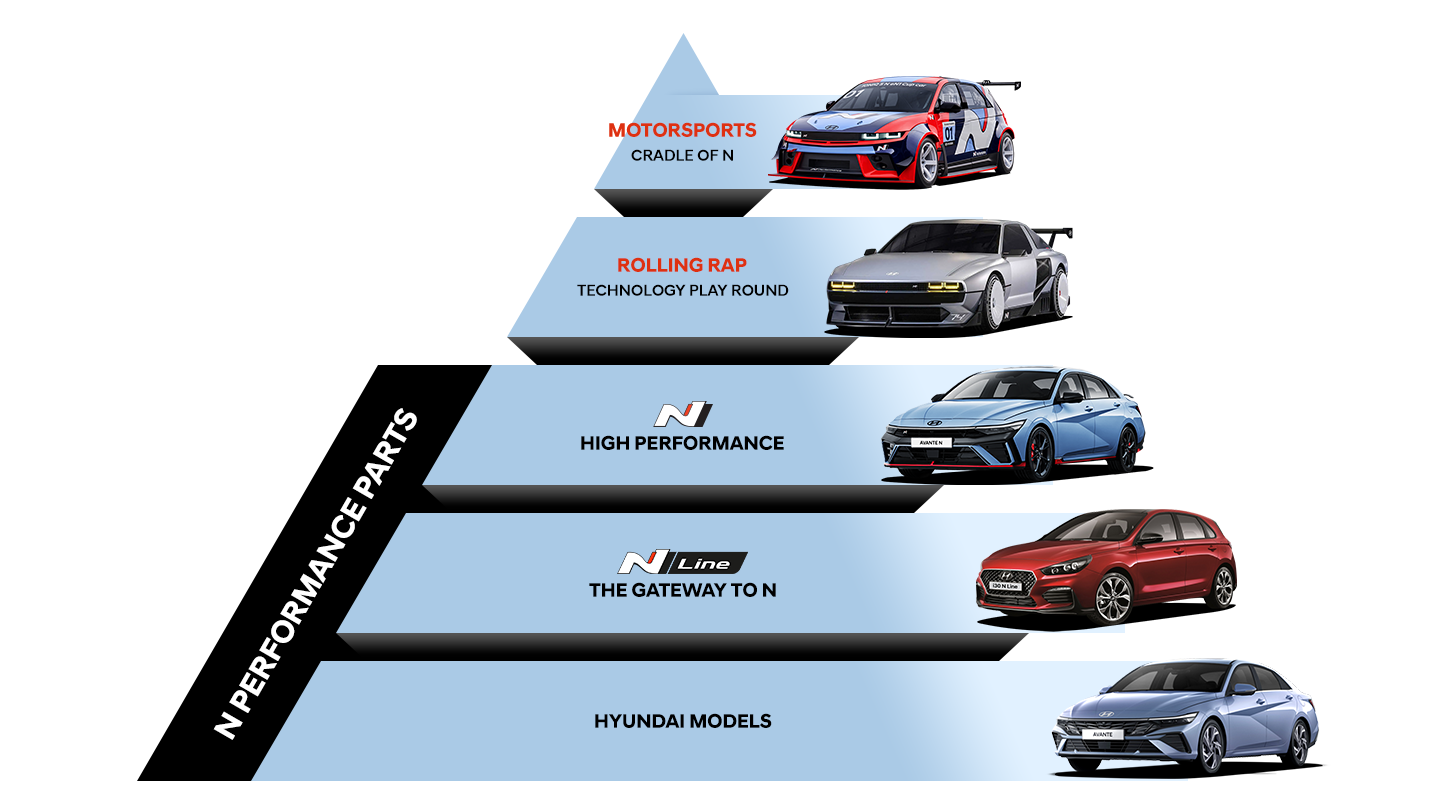
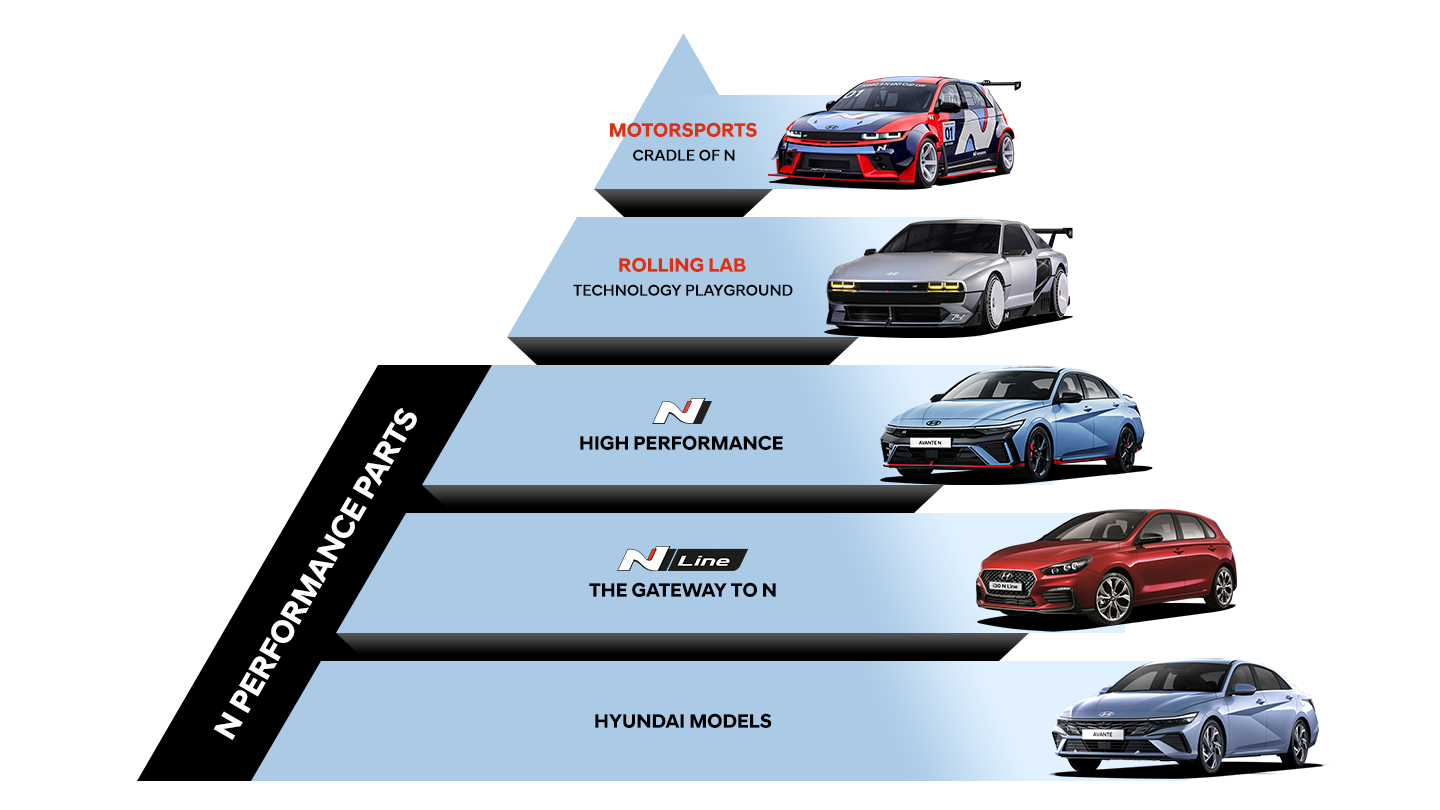
- JIRA 수정 사항 반영 완료
1. 지라 - 574
 - 상단에 외장/내장/요약 문구 수정 요청 제외하고 이미지좌측상단 노출되는 텍스트 삭제
2. 지라 - 575
 - 컨피규레이터 해상도 수정 필요
3. 지라 - 580
4. 지라 - 581

diff --git a/inc/js/pub-ui.js b/inc/js/pub-ui.js
@@ -359,9 +359,10 @@ var pubUi = {
         },
       },
     });
+    
     swiper2SlideEvt(); //swiper2 이벤트 실행
-
     swiper4SlideEvt(); //swiper4 이벤트 실행
+    swiper12SlideEvt(); //swiper12 이벤트 실행
 
     var swiper3 = new Swiper(".ty03Swiper.rankswiper", {
       slidesPerView: 3,
@@ -516,51 +517,6 @@ var pubUi = {
       pagination: {
         el: ".merchandise_swiper .swiper-pagination-custom",
         clickable: true,
-      },
-    });
-    var swiper12 = new Swiper(".collection_swiper", {
-      slidesPerView: 1.15,
-      spaceBetween: 24,
-      watchOverflow: true,
-      // centeredSlides: true,
-      // slidesOffsetBefore: 24,
-      // slidesOffsetAfter: 24,
-      pagination: {
-        el: ".collection_swiper .swiper-pagination-custom",
-        clickable: true,
-      },
-      navigation: {
-        nextEl: ".collection_swiper .swiper-button-next",
-        prevEl: ".collection_swiper .swiper-button-prev",
-      },
-      breakpoints: {
-        360: {
-          slidesPerView: 1.13,
-          spaceBetween: 12,
-          // slidesOffsetBefore: 24,
-          // slidesOffsetAfter: 24,
-          centeredSlides: true,
-        },
-        400: {
-          slidesPerView: 1.1,
-          spaceBetween: 12,
-          // slidesOffsetBefore: 24,
-          // slidesOffsetAfter: 24,
-          centeredSlides: true,
-        },
-        550: {
-          slidesPerView: 1.07,
-          spaceBetween: 12,
-          // slidesOffsetBefore: 24,
-          // slidesOffsetAfter: 24,
-          centeredSlides: true,
-        },
-        1024: {
-          slidesPerView: 3,
-          spaceBetween: 24,
-          // slidesOffsetBefore: 0,
-          // slidesOffsetAfter: 0,
-        },
       },
     });
   },
@@ -808,6 +764,7 @@ $(document).ready(function () {
   btnNaviCheck();
   var ty02Swiper = $(".ty02Swiper");
   var ty04Swiper = $(".ty04Swiper");
+  var ty12Swiper = $(".collection_swiper");
 
   $(window).resize(function () {
     if ($(window).innerWidth() < 1024) {
@@ -835,12 +792,21 @@ $(document).ready(function () {
     } else {
       contsItemGridSizeChk();
     }
+
     // 08.09 추가 - EP010101 (N Festival 메인에 resize 시 발생하는 Next races 영역 결함 처리 위함 - destory 후 ty04Swiper 재호출)
     if (ty04Swiper.length > 0) {
       for (var i = 0; i < ty04Swiper.length; i++) {
         ty04Swiper[i].swiper.destroy();
       }
       swiper4SlideEvt();
+    }
+
+    // 09.25 추가 - BR050101 (운영 요구사항 처리 : resize할때 swiper 깨지는 문제 방지하기위해 destory 후 재호출 되도록 수정)
+    if (ty12Swiper.length > 0) {
+      for (var i = 0; i < ty12Swiper.length; i++) {
+        ty12Swiper[i].swiper.destroy();
+      }
+      swiper12SlideEvt();
     }
 
     btnNaviCheck();
@@ -870,6 +836,14 @@ $(document).ready(function () {
       contsImages[i].removeAttribute("loading");
     }
   }
+
+  // 09.25 추가 - BR050101 (운영 요구사항 처리 : 현대 N 컬렉션 영역 탭 눌러서 컨텐츠 변경 시 좌/우 네비게이션 버튼 간헐적으로 사라졌다가 나타남)
+  $(".merchandise-wrap .collectiontab-wrap .tab-head .tabs li").on("click", function () {
+    for (var i = 0; i < ty12Swiper.length; i++) {
+      ty12Swiper[i].swiper.destroy();
+    }
+    swiper12SlideEvt();
+  });
 
   // 08.20 수정 : 함수 형태로 구조 변경
   contsItemGridSizeChk();
@@ -1052,6 +1026,55 @@ function swiper4SlideEvt() {
         spaceBetween: 24,
         slidesOffsetBefore: leftSpaceVal,
         slidesOffsetAfter: 80,
+      },
+    },
+  });
+}
+
+// N Collection collection Swiper 분리
+function swiper12SlideEvt() {
+  var swiper12 = new Swiper(".collection_swiper", {
+    slidesPerView: 1.15,
+    spaceBetween: 24,
+    watchOverflow: true,
+    // centeredSlides: true,
+    // slidesOffsetBefore: 24,
+    // slidesOffsetAfter: 24,
+    pagination: {
+      el: ".collection_swiper .swiper-pagination-custom",
+      clickable: true,
+    },
+    navigation: {
+      nextEl: ".collection_swiper .swiper-button-next",
+      prevEl: ".collection_swiper .swiper-button-prev",
+    },
+    breakpoints: {
+      360: {
+        slidesPerView: 1.13,
+        spaceBetween: 12,
+        // slidesOffsetBefore: 24,
+        // slidesOffsetAfter: 24,
+        centeredSlides: true,
+      },
+      400: {
+        slidesPerView: 1.1,
+        spaceBetween: 12,
+        // slidesOffsetBefore: 24,
+        // slidesOffsetAfter: 24,
+        centeredSlides: true,
+      },
+      550: {
+        slidesPerView: 1.07,
+        spaceBetween: 12,
+        // slidesOffsetBefore: 24,
+        // slidesOffsetAfter: 24,
+        centeredSlides: true,
+      },
+      1024: {
+        slidesPerView: 3,
+        spaceBetween: 24,
+        // slidesOffsetBefore: 0,
+        // slidesOffsetAfter: 0,
       },
     },
   });

diff --git a/html/brand/BR020102.html b/html/brand/BR020102.html
@@ -115,6 +115,7 @@
                 <img src="../../inc/images/img/img_aboutN_conts02_mo.png" loading="lazy" alt="PYRAMID Mobile 이미지"
                   class="mo-only" />
               </div>
+              <!-- 09/26 수정 : 텍스트 문구 변경 -->
               <div class="bnr-info-wrap mo-only">
                 <ul class="info-list">
                   <li>
@@ -134,13 +135,13 @@
                   <li>
                     <a href="#" class="link" title="자세히 보러가기">
                       <div class="img-area">
-                        <img src="../../inc/images/img/img_model-02.png" loading="lazy" alt="ROLLING RAP 이미지" />
+                        <img src="../../inc/images/img/img_model-02.png" loading="lazy" alt="ROLLING LAB 이미지" />
                       </div>
                       <div class="text-area">
                         <h5 class="model_title color-type02">
-                          <strong>Rolling Rap</strong>
+                          <strong>Rolling Lab</strong>
                         </h5>
-                        <p class="model_info">Technology Play Ground</p>
+                        <p class="model_info">Technology Playground</p>
                       </div>
                     </a>
                   </li>
@@ -184,7 +185,7 @@
                     </a>
                   </li>
                 </ul>
-              </div>
+              </div><!-- //09/26 수정 : 텍스트 문구 변경 -->
             </div>
           </div>
         </div>

diff --git a/inc/css/configurator.css b/inc/css/configurator.css
@@ -167,7 +167,7 @@
 .configurator_list_swiper .configurator_car_wrap {
   position: absolute;
   left: 50%;
-  top: 50%;
+  top: 45%;
   transform: translate(-50%, -50%);
   width: 41vw;
   min-width: 26.3rem;
@@ -245,7 +245,7 @@
 .configurator_list_swiper .swiper-bottom-wrap,
 .configurator_swiper .swiper-bottom-wrap {
   left: 0;
-  bottom: 50%;
+  bottom: 55%;
   width: 100%;
 }
 .configurator_list_swiper .swiper-button-next.swiper-button-disabled,
@@ -865,7 +865,7 @@
     font-size: 1.125rem;
   }
   .configurator_list_swiper .configurator_car_wrap {
-    top: 50%;
+    top: 45%;
     transform: translate(-50%, -50%);
     width: 85.55%;
     min-width: 0;
@@ -890,7 +890,7 @@
     padding: 0 1.5rem;
   }
   .configurator_list_swiper .swiper-bottom-wrap {
-    bottom: 50%;
+    bottom: 55%;
   }
   .configurator_list_swiper .swiper-button-prev:after {
     background-image: url(../images/icon/icon-arrow-box-white_left_mo.svg);

diff --git a/inc/css/experience.css b/inc/css/experience.css
@@ -3721,17 +3721,20 @@ EP040401C01, EP040401C02, EP040401M02, EP040401M03, EP040401M04
 
   .popup-wrapper .popup-body {
     padding: 40px 24px 60px 24px;
-    max-height: calc(100vh - 130px);
+    /* max-height: calc(100vh - 130px); */
     overflow-y: auto;
     display: grid;
     gap: 40px 0;
     position: relative;
     z-index: 6;
+    height: 100%;
+    max-height: calc(var(--vh, 1vh) * 100 - 130px);
   }
 
   .popup-wrapper .popup-body.height-longer-mobile {
     /* mission, reward popup in nfluencer, mypost popup in mypage */
-    max-height: calc(100vh - 190px);
+    /* max-height: calc(100vh - 190px); */
+    max-height: calc(var(--vh, 1vh) * 100 - 190px);
     z-index: 6;
     padding: 28px 24px 36px 24px;
   }

diff --git a/guide/path.html b/guide/path.html
@@ -165,7 +165,7 @@
       url: 'brand/BR020102.html',
       date: '',
       check: "<span class='icon-state comp'></span>",
-      noti: '<li>08/05 html 수정: 번역 수정 </li><li>08/21 키비 수정 </li><li>08/26 키비 문구 삭제 </li><li> 09/02 대소문자 변경 </li><li> 09/02 최종 문구변경</li><li> 09/04 주석 참조</li>'
+      noti: '<li>08/05 html 수정: 번역 수정 </li><li>08/21 키비 수정 </li><li>08/26 키비 문구 삭제 </li><li> 09/02 대소문자 변경 </li><li> 09/02 최종 문구변경</li><li> 09/04 주석 참조</li><li>09/26 수정 : 텍스트 문구 변경</li>'
     },
     {
       dep1: 'Brand',

diff --git a/inc/css/model-pop.css b/inc/css/model-pop.css
@@ -759,6 +759,13 @@
     /* width: calc(100% - 100px); */
   }
 
+  .popup-wrapper .popup-header > h3 {
+    text-overflow: ellipsis;
+    overflow: hidden;
+    white-space: nowrap;
+    width: calc(100% - 30px);
+  }
+
   .popup-wrapper .popup-header .ellip.small {
     width: 100%;
   }

diff --git a/inc/css/models.css b/inc/css/models.css
@@ -1053,9 +1053,9 @@
     object-fit: cover;
   }
 
-  .models-wrap:not(.brand) .content-top {
+  /* .models-wrap:not(.brand) .content-top {
     padding: 135px 24px;
-  }
+  } */
   .models-wrap .content-item02 .btn-groups {
     bottom: 12px;
     right: 12px;
